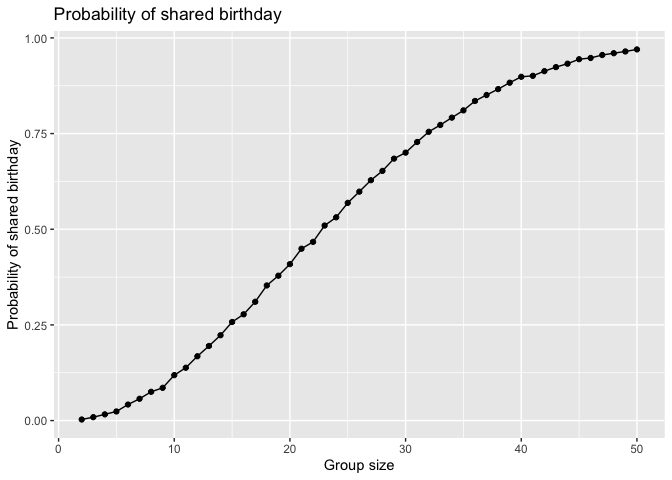
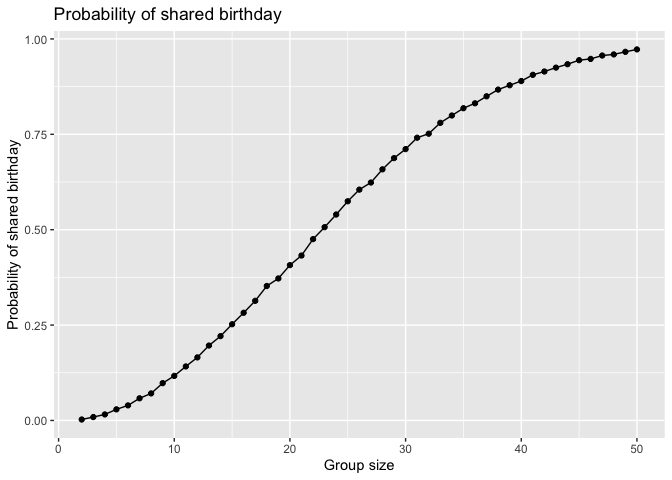
Question 2 first half complete

diff --git a/p8105_hw5_hca2124.md b/p8105_hw5_hca2124.md
@@ -44,7 +44,7 @@ bday = function(n) {
 bday(10)
 ```
 
-    ## [1] TRUE
+    ## [1] FALSE
 
 ``` r
 bday(50)
@@ -82,6 +82,184 @@ prob_df |>
 
 ![](p8105_hw5_hca2124_files/figure-gfm/unnamed-chunk-5-1.png)<!-- -->
 The probability of a shared birthday rises steadily as group size
-increases. It reaches 50% probability at around a group size of 23 and
-increases to 96% probability at a group size of 48 and plateaus
-afterwards.
+increases. The smaller the group size is, the lower probability there is
+of having a shared birthday. It reaches 50% probability at around a
+group size of 23 and increases to 96% probability at a group size of 48
+and plateaus afterwards.
+
+\#Question 2
+
+``` r
+data_df = "data/data/"
+
+participant_df =
+  tibble(
+    files = list.files(data_df),
+    path = str_c(data_df, files)
+  ) |>
+  mutate(data = map(path, read_csv)) |>
+  unnest(cols = data)
+```
+
+    ## Rows: 1 Columns: 8
+    ## ── Column specification ────────────────────────────────────────────────────────
+    ## Delimiter: ","
+    ## dbl (8): week_1, week_2, week_3, week_4, week_5, week_6, week_7, week_8
+    ## 
+    ## ℹ Use `spec()` to retrieve the full column specification for this data.
+    ## ℹ Specify the column types or set `show_col_types = FALSE` to quiet this message.
+    ## Rows: 1 Columns: 8
+    ## ── Column specification ────────────────────────────────────────────────────────
+    ## Delimiter: ","
+    ## dbl (8): week_1, week_2, week_3, week_4, week_5, week_6, week_7, week_8
+    ## 
+    ## ℹ Use `spec()` to retrieve the full column specification for this data.
+    ## ℹ Specify the column types or set `show_col_types = FALSE` to quiet this message.
+    ## Rows: 1 Columns: 8
+    ## ── Column specification ────────────────────────────────────────────────────────
+    ## Delimiter: ","
+    ## dbl (8): week_1, week_2, week_3, week_4, week_5, week_6, week_7, week_8
+    ## 
+    ## ℹ Use `spec()` to retrieve the full column specification for this data.
+    ## ℹ Specify the column types or set `show_col_types = FALSE` to quiet this message.
+    ## Rows: 1 Columns: 8
+    ## ── Column specification ────────────────────────────────────────────────────────
+    ## Delimiter: ","
+    ## dbl (8): week_1, week_2, week_3, week_4, week_5, week_6, week_7, week_8
+    ## 
+    ## ℹ Use `spec()` to retrieve the full column specification for this data.
+    ## ℹ Specify the column types or set `show_col_types = FALSE` to quiet this message.
+    ## Rows: 1 Columns: 8
+    ## ── Column specification ────────────────────────────────────────────────────────
+    ## Delimiter: ","
+    ## dbl (8): week_1, week_2, week_3, week_4, week_5, week_6, week_7, week_8
+    ## 
+    ## ℹ Use `spec()` to retrieve the full column specification for this data.
+    ## ℹ Specify the column types or set `show_col_types = FALSE` to quiet this message.
+    ## Rows: 1 Columns: 8
+    ## ── Column specification ────────────────────────────────────────────────────────
+    ## Delimiter: ","
+    ## dbl (8): week_1, week_2, week_3, week_4, week_5, week_6, week_7, week_8
+    ## 
+    ## ℹ Use `spec()` to retrieve the full column specification for this data.
+    ## ℹ Specify the column types or set `show_col_types = FALSE` to quiet this message.
+    ## Rows: 1 Columns: 8
+    ## ── Column specification ────────────────────────────────────────────────────────
+    ## Delimiter: ","
+    ## dbl (8): week_1, week_2, week_3, week_4, week_5, week_6, week_7, week_8
+    ## 
+    ## ℹ Use `spec()` to retrieve the full column specification for this data.
+    ## ℹ Specify the column types or set `show_col_types = FALSE` to quiet this message.
+    ## Rows: 1 Columns: 8
+    ## ── Column specification ────────────────────────────────────────────────────────
+    ## Delimiter: ","
+    ## dbl (8): week_1, week_2, week_3, week_4, week_5, week_6, week_7, week_8
+    ## 
+    ## ℹ Use `spec()` to retrieve the full column specification for this data.
+    ## ℹ Specify the column types or set `show_col_types = FALSE` to quiet this message.
+    ## Rows: 1 Columns: 8
+    ## ── Column specification ────────────────────────────────────────────────────────
+    ## Delimiter: ","
+    ## dbl (8): week_1, week_2, week_3, week_4, week_5, week_6, week_7, week_8
+    ## 
+    ## ℹ Use `spec()` to retrieve the full column specification for this data.
+    ## ℹ Specify the column types or set `show_col_types = FALSE` to quiet this message.
+    ## Rows: 1 Columns: 8
+    ## ── Column specification ────────────────────────────────────────────────────────
+    ## Delimiter: ","
+    ## dbl (8): week_1, week_2, week_3, week_4, week_5, week_6, week_7, week_8
+    ## 
+    ## ℹ Use `spec()` to retrieve the full column specification for this data.
+    ## ℹ Specify the column types or set `show_col_types = FALSE` to quiet this message.
+    ## Rows: 1 Columns: 8
+    ## ── Column specification ────────────────────────────────────────────────────────
+    ## Delimiter: ","
+    ## dbl (8): week_1, week_2, week_3, week_4, week_5, week_6, week_7, week_8
+    ## 
+    ## ℹ Use `spec()` to retrieve the full column specification for this data.
+    ## ℹ Specify the column types or set `show_col_types = FALSE` to quiet this message.
+    ## Rows: 1 Columns: 8
+    ## ── Column specification ────────────────────────────────────────────────────────
+    ## Delimiter: ","
+    ## dbl (8): week_1, week_2, week_3, week_4, week_5, week_6, week_7, week_8
+    ## 
+    ## ℹ Use `spec()` to retrieve the full column specification for this data.
+    ## ℹ Specify the column types or set `show_col_types = FALSE` to quiet this message.
+    ## Rows: 1 Columns: 8
+    ## ── Column specification ────────────────────────────────────────────────────────
+    ## Delimiter: ","
+    ## dbl (8): week_1, week_2, week_3, week_4, week_5, week_6, week_7, week_8
+    ## 
+    ## ℹ Use `spec()` to retrieve the full column specification for this data.
+    ## ℹ Specify the column types or set `show_col_types = FALSE` to quiet this message.
+    ## Rows: 1 Columns: 8
+    ## ── Column specification ────────────────────────────────────────────────────────
+    ## Delimiter: ","
+    ## dbl (8): week_1, week_2, week_3, week_4, week_5, week_6, week_7, week_8
+    ## 
+    ## ℹ Use `spec()` to retrieve the full column specification for this data.
+    ## ℹ Specify the column types or set `show_col_types = FALSE` to quiet this message.
+    ## Rows: 1 Columns: 8
+    ## ── Column specification ────────────────────────────────────────────────────────
+    ## Delimiter: ","
+    ## dbl (8): week_1, week_2, week_3, week_4, week_5, week_6, week_7, week_8
+    ## 
+    ## ℹ Use `spec()` to retrieve the full column specification for this data.
+    ## ℹ Specify the column types or set `show_col_types = FALSE` to quiet this message.
+    ## Rows: 1 Columns: 8
+    ## ── Column specification ────────────────────────────────────────────────────────
+    ## Delimiter: ","
+    ## dbl (8): week_1, week_2, week_3, week_4, week_5, week_6, week_7, week_8
+    ## 
+    ## ℹ Use `spec()` to retrieve the full column specification for this data.
+    ## ℹ Specify the column types or set `show_col_types = FALSE` to quiet this message.
+    ## Rows: 1 Columns: 8
+    ## ── Column specification ────────────────────────────────────────────────────────
+    ## Delimiter: ","
+    ## dbl (8): week_1, week_2, week_3, week_4, week_5, week_6, week_7, week_8
+    ## 
+    ## ℹ Use `spec()` to retrieve the full column specification for this data.
+    ## ℹ Specify the column types or set `show_col_types = FALSE` to quiet this message.
+    ## Rows: 1 Columns: 8
+    ## ── Column specification ────────────────────────────────────────────────────────
+    ## Delimiter: ","
+    ## dbl (8): week_1, week_2, week_3, week_4, week_5, week_6, week_7, week_8
+    ## 
+    ## ℹ Use `spec()` to retrieve the full column specification for this data.
+    ## ℹ Specify the column types or set `show_col_types = FALSE` to quiet this message.
+    ## Rows: 1 Columns: 8
+    ## ── Column specification ────────────────────────────────────────────────────────
+    ## Delimiter: ","
+    ## dbl (8): week_1, week_2, week_3, week_4, week_5, week_6, week_7, week_8
+    ## 
+    ## ℹ Use `spec()` to retrieve the full column specification for this data.
+    ## ℹ Specify the column types or set `show_col_types = FALSE` to quiet this message.
+    ## Rows: 1 Columns: 8
+    ## ── Column specification ────────────────────────────────────────────────────────
+    ## Delimiter: ","
+    ## dbl (8): week_1, week_2, week_3, week_4, week_5, week_6, week_7, week_8
+    ## 
+    ## ℹ Use `spec()` to retrieve the full column specification for this data.
+    ## ℹ Specify the column types or set `show_col_types = FALSE` to quiet this message.
+
+``` r
+tidy_df =
+  participant_df |>
+  mutate(
+    files = str_replace(files, ".csv", ""),
+    arm = str_sub(files, 1,3)
+  ) |>
+  pivot_longer(
+    week_1:week_8,
+    names_to = "week",
+    values_to = "outcome",
+    names_prefix = "week_"
+  ) |>
+  mutate(week = as.numeric(week))|>
+  select(arm, subj = files,week, outcome)
+```
+
+This is the tidy dataset with 160 rows and 4 columns. The variables of
+the columns are arm, subj, week, outcome. Depicting the arm (control vs
+experimental) a participant is in, the participant subject ID, week, and
+outcome data.
